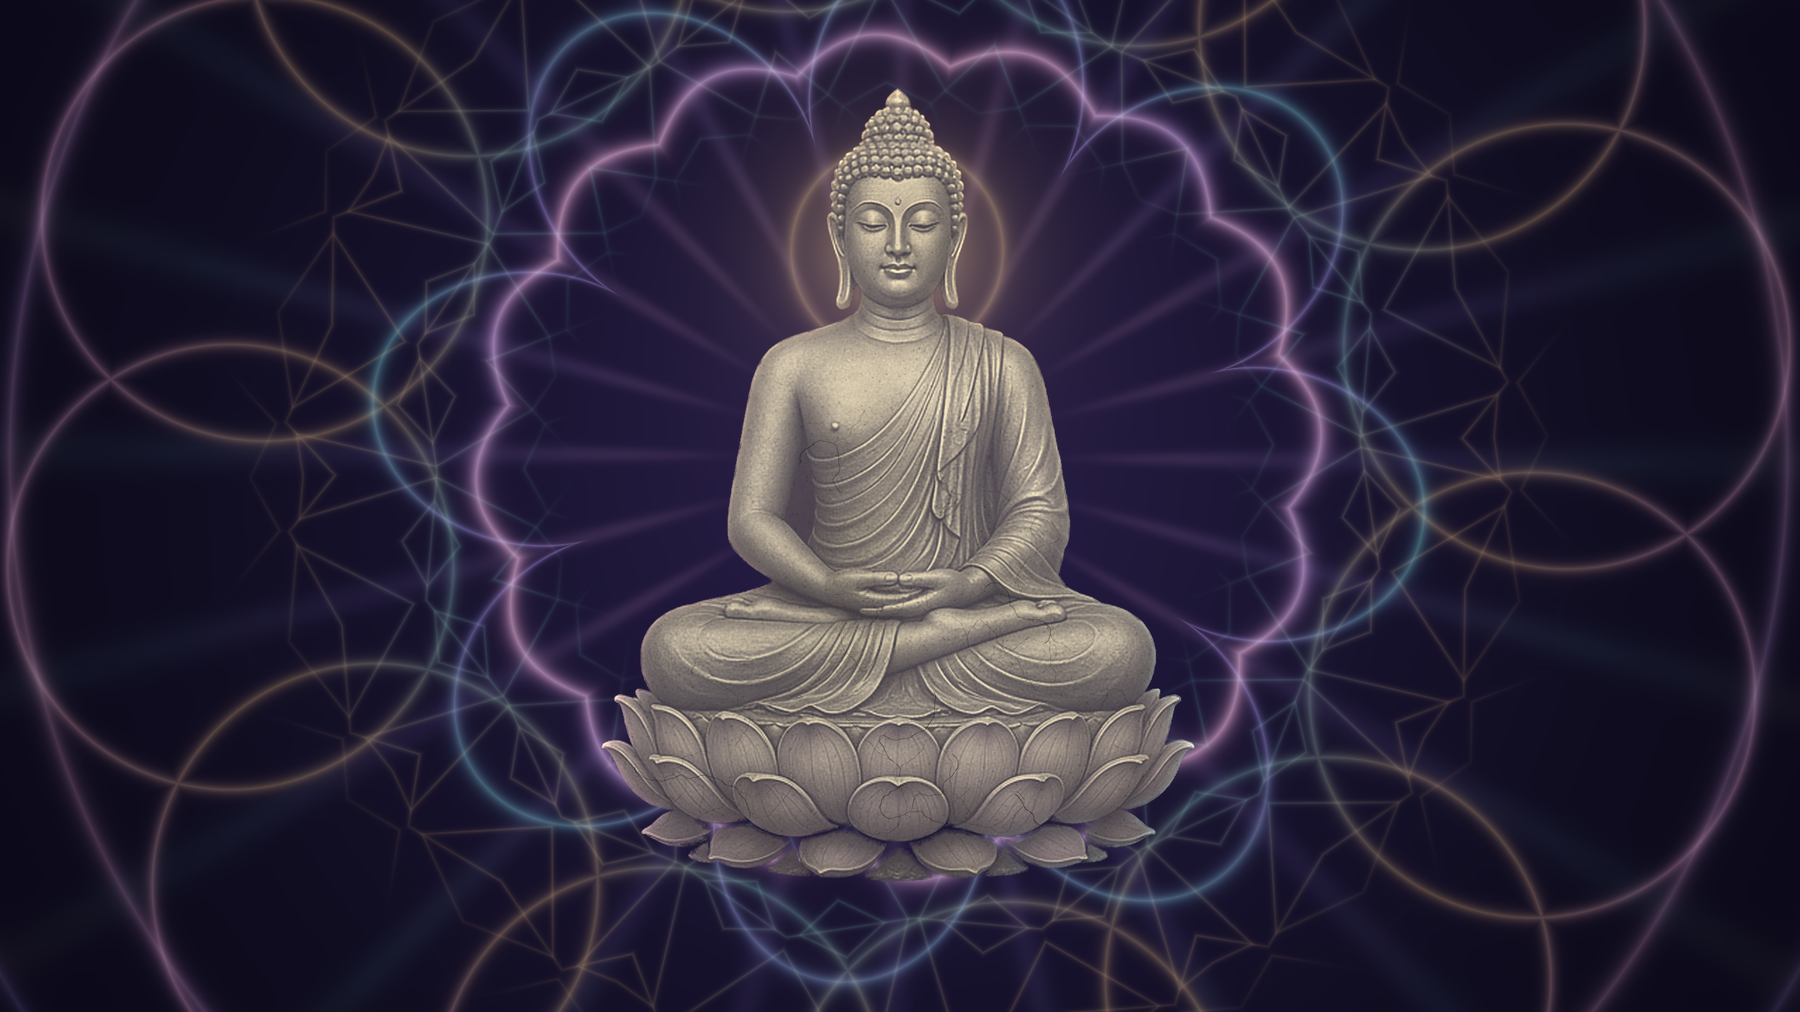
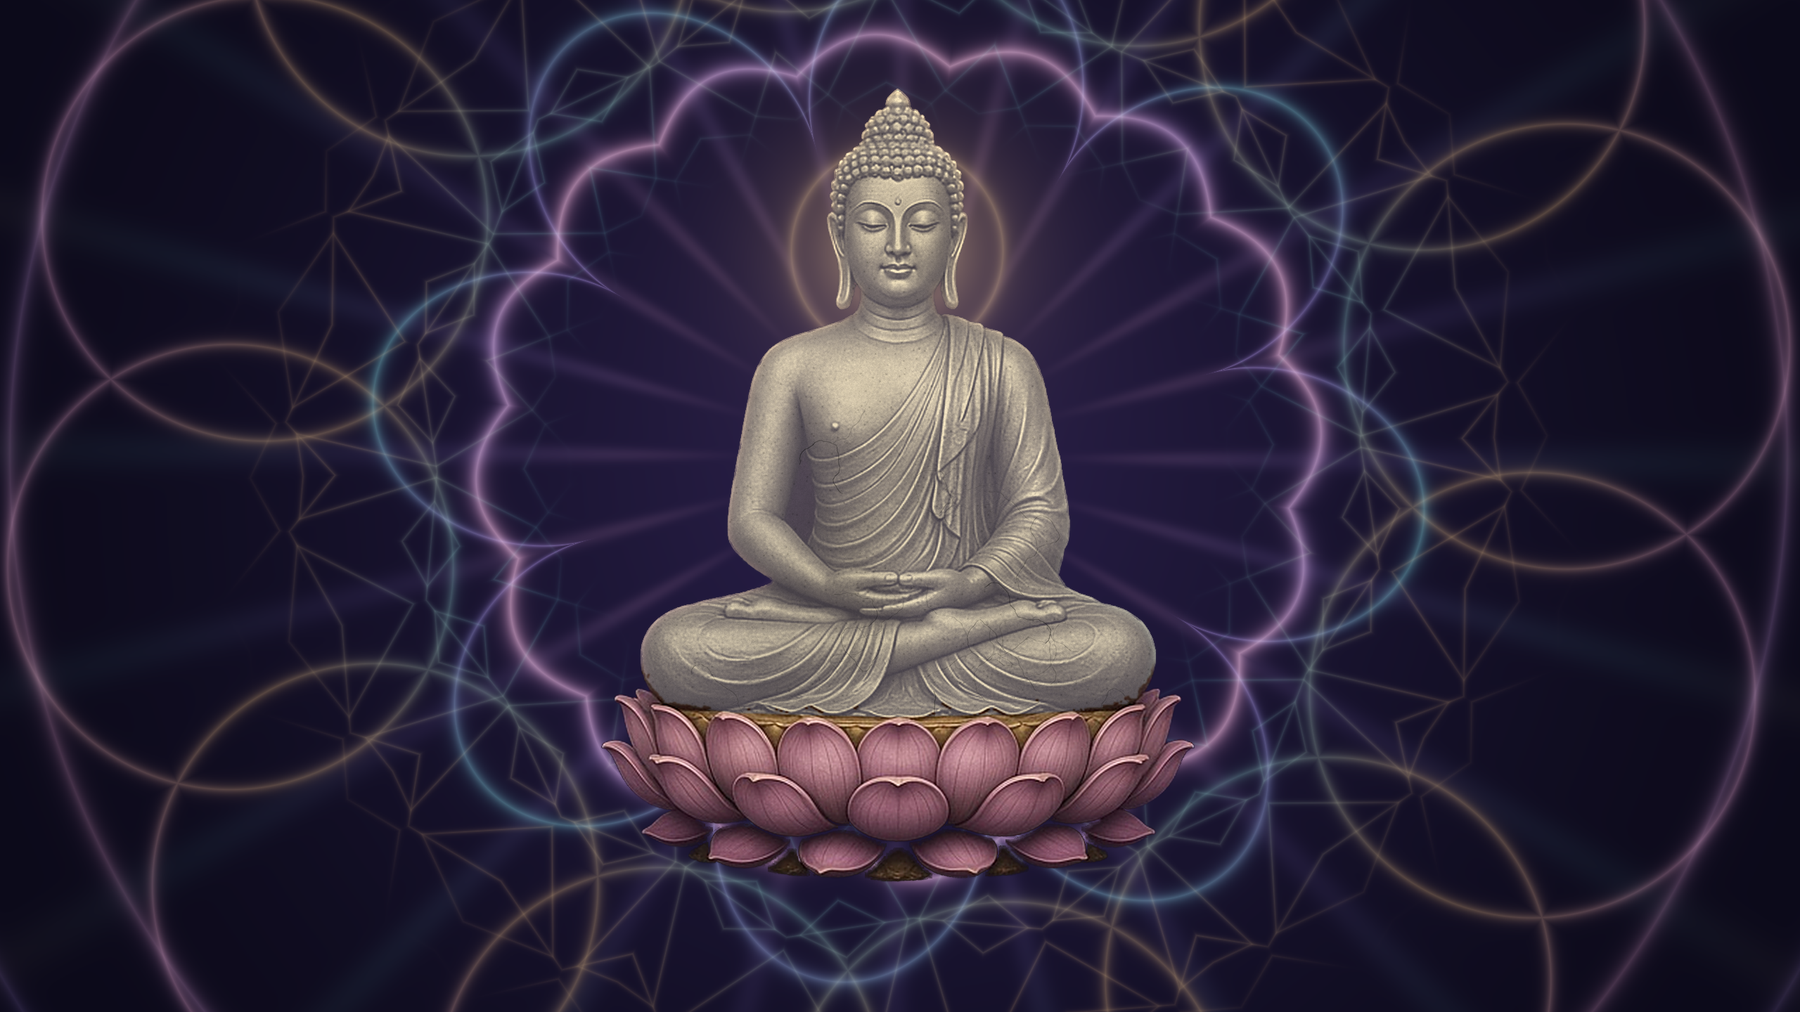
M8: original pink lotus + gilded seat restored under the stone Buddha (pixel-exact composite below the seam)

Changed region(s): [[0.3422, 0.6739, 0.6844, 0.8883]]

diff --git a/theme/src/stone.py b/theme/src/stone.py
@@ -1,5 +1,6 @@
 # stone.py: turn the gilded Buddha (buddha-figure-gold.png) into a carved,
-# weathered stone statue with subtle hairline cracks, keeping the exact same
+# weathered stone statue with subtle hairline cracks (the lotus seat keeps its
+# original gold and pink), keeping the exact same
 # silhouette/alpha so the aura and layout do not move. Deterministic (seeded).
 import numpy as np
 from PIL import Image, ImageDraw, ImageFilter
@@ -108,3 +109,21 @@ al2 = np.where(edge_zone, al * np.clip(1.6 - 1.4 * chip, 0.45, 1), al)
 
 out = np.dstack([np.clip(col, 0, 1), np.clip(al2, 0, 1)])
 Image.fromarray((out * 255 + 0.5).astype(np.uint8), 'RGBA').save('buddha-figure.png', optimize=True)
+
+# keep the lotus seat exactly as painted: the original pixels (gold seat band +
+# pink petals) below the line where the folded legs meet the seat, plus every
+# petal that rises above that line, feathered over ~3 px. Only the Buddha is stone.
+from PIL import ImageFilter as _F
+xs = np.array([0, 120, 200, 300, 420, 500, 600, 700, 760, W], np.float32)
+ys = np.array([883, 887, 897, 900, 903, 901, 899, 893, 884, 881], np.float32)
+seam = np.interp(np.arange(W, dtype=np.float32), xs, ys)[None, :]
+below = np.clip((np.arange(H, dtype=np.float32)[:, None] - seam) / 3 + 0.5, 0, 1)
+petal = ((rgb[..., 2] - rgb[..., 1]) > -0.03) & (al > 0.02)
+pm = Image.fromarray((petal * 255).astype(np.uint8)).filter(_F.MaxFilter(3)).filter(_F.MinFilter(3)).filter(_F.MaxFilter(3))
+petal = np.asarray(pm.filter(_F.GaussianBlur(1.0))).astype(np.float32) / 255
+petal *= np.clip((np.arange(H, dtype=np.float32)[:, None] - 820) / 20, 0, 1)   # petals live low only
+keep = np.maximum(below, petal)[..., None]
+orig = a
+fin = np.asarray(Image.open('buddha-figure.png')).astype(np.float32) / 255
+mixed = fin * (1 - keep) + orig * keep
+Image.fromarray((np.clip(mixed, 0, 1) * 255 + 0.5).astype(np.uint8), 'RGBA').save('buddha-figure.png', optimize=True)

diff --git a/README.md b/README.md
@@ -20,7 +20,7 @@ Soft and warm, never neon, and every text colour stays readable on the glass.
 
 **The Buddha**
 - A seated Buddha carved from weathered sandstone: warm grey stone with grain, mottling, fine hairline cracks (none across the face), small eroded pits and slightly chipped edges. The aura's saffron, lotus-pink and teal light catches the stone edges.
-- He sits centred on a stone lotus and is redrawn sharp at every resolution.
+- He sits centred on the original painted lotus: pink petals on a gilded seat, untouched; only the figure is stone.
 
 **Breathing fractal aura (live wallpaper)**
 - A GPU-shader mandala behind him: a scalloped 16-petal lotus ring, 8 large petals turning the other way, a 12-fold kaleidoscopic fractal filigree that folds with the breath, a flower-of-life garland, soft rays, outer ripples and a golden nimbus behind his head.
@@ -106,7 +106,7 @@ This switches the fractal layers off, restores every backed-up file in reverse o
 
 ```bash
 python3 mask.py           # cut the figure out of buddha-src.jpg  -> buddha-figure-gold.png
-python3 stone.py          # weathered stone + hairline cracks     -> buddha-figure.png
+python3 stone.py          # stone figure + cracks, original lotus -> buddha-figure.png
 python3 render_assets.py  # backgrounds, previews, unlock emblem, aura/buddha.png
 ```
 
